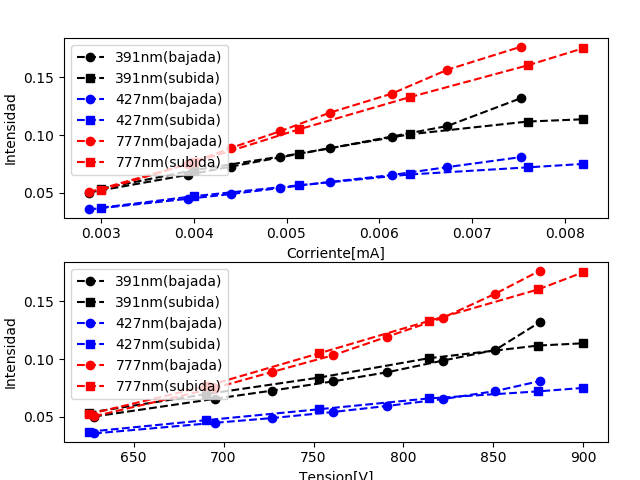
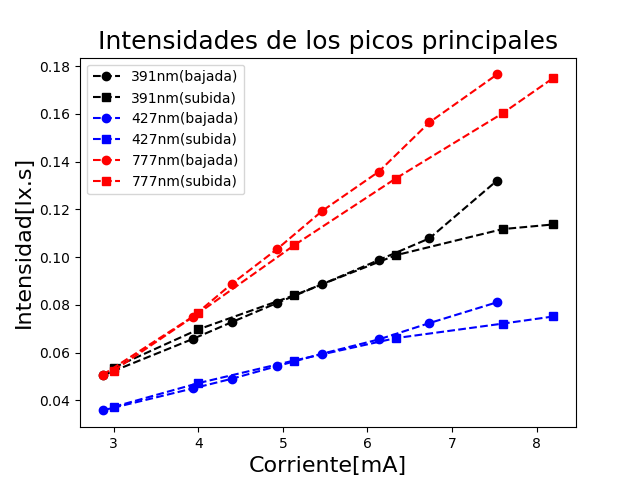
Corrijo imagenes

diff --git a/Glow/Espectroscopia/PutoGlow.py b/Glow/Espectroscopia/PutoGlow.py
@@ -40,12 +40,12 @@ LdO = [391, 427, 777] ##Longitudes de onda
 [5,:] = 'Max Value[Intensity]'      
  """     
 
-x = "27-06/Ruido.csv"
-dataruido = cargar(x)
-Ruido = np.mean(dataruido[5,:])
-ErrorRuido = np.var(dataruido[5,:])
+#x = "27-06/Ruido.csv"
+#dataruido = cargar(x)
+#Ruido = np.mean(dataruido[5,:])
+#ErrorRuido = np.var(dataruido[5,:])
 
-print(Ruido, ErrorRuido)
+#print(Ruido, ErrorRuido)
 
 res1 = np.zeros((len(LdO),len(Ib)))
 for j in range(len(LdO)):
@@ -69,9 +69,8 @@ Is = [Is[i]/150 for i in range(len(Is))]
 Vb = [1000*Vb[i] for i in range(len(Vb))]
 Vs = [1000*Vs[i] for i in range(len(Vs))]
 
-print(Ib)
-
 ## Ignoro los primeros puntos porque tienen intensidad menor al ruido
+
 Ib = Ib[1:]
 Vb = Vb[1:]
 Is = Is[1:]
@@ -82,22 +81,13 @@ res2 = res2[:,1:]
 Leg = ['391nm(bajada)','391nm(subida)','427nm(bajada)','427nm(subida)','777nm(bajada)','777nm(subida)']
 for j in range(len(LdO)):
     plt.figure(1)
-    plt.subplot(211)
-    plt.plot(Ib,res1[j,:],str(col[j])+'o--')
-    plt.plot(Is,res2[j,:],str(col[j])+'s--')
-    plt.subplot(212)
-    plt.plot(Vb,res1[j,:],str(col[j])+'o--')
-    plt.plot(Vs,res2[j,:],str(col[j])+'s--')
+    plt.plot(1000*np.array(Ib),res1[j,:],str(col[j])+'o--')
+    plt.plot(1000*np.array(Is),res2[j,:],str(col[j])+'s--')
 plt.figure(1)
-plt.subplot(211)
+plt.title('Intensidades de los picos principales',fontsize = 18)
 plt.legend(Leg)
-plt.ylabel('Intensidad')
-plt.xlabel('Corriente[mA]')
-plt.subplot(212)
-plt.legend(Leg)
-plt.ylabel('Intensidad')
-plt.xlabel('Tension[V]')
-plt.subplots_adjust(top=0.92, bottom=0.08, left=0.10, right=0.95, hspace=0.25,wspace=0.35)
+plt.ylabel('Intensidad[lx.s]',fontsize = 16)
+plt.xlabel('Corriente[mA]',fontsize = 16)
 plt.show()
 plt.savefig("IntVsCorr.png")
 plt.close()
@@ -137,7 +127,7 @@ def Lambda(Z,k): # Z es el numero atomico y k es el nivel del que esta decayendo
 X_N = np.linspace(1,10,10)
 X_O = np.linspace(1,10,10)
 X_Ar = np.linspace(1,18,18)
-
+"""
 plt.plot(Lambda(7,X_N),X_N, "ro")
 plt.plot(Lambda(8,X_O),X_O, "bo")
 plt.plot(Lambda(18,X_Ar),X_Ar, "ko")
@@ -150,7 +140,7 @@ plt.plot([777, 777],[0,18])
 plt.axis([0,800,0,18])
 plt.legend(["Nitrógeno", "Oxígeno","Argón"])
 
-
+"""
 I_N_b = res1[0,:]+res1[2,:] ## Intensidad emitida por el nitrogeno
 I_N_s = res2[0,:]+res2[2,:]
 I_O_b = res1[1,:]  ## Intensidad emitida por el oxigeno
